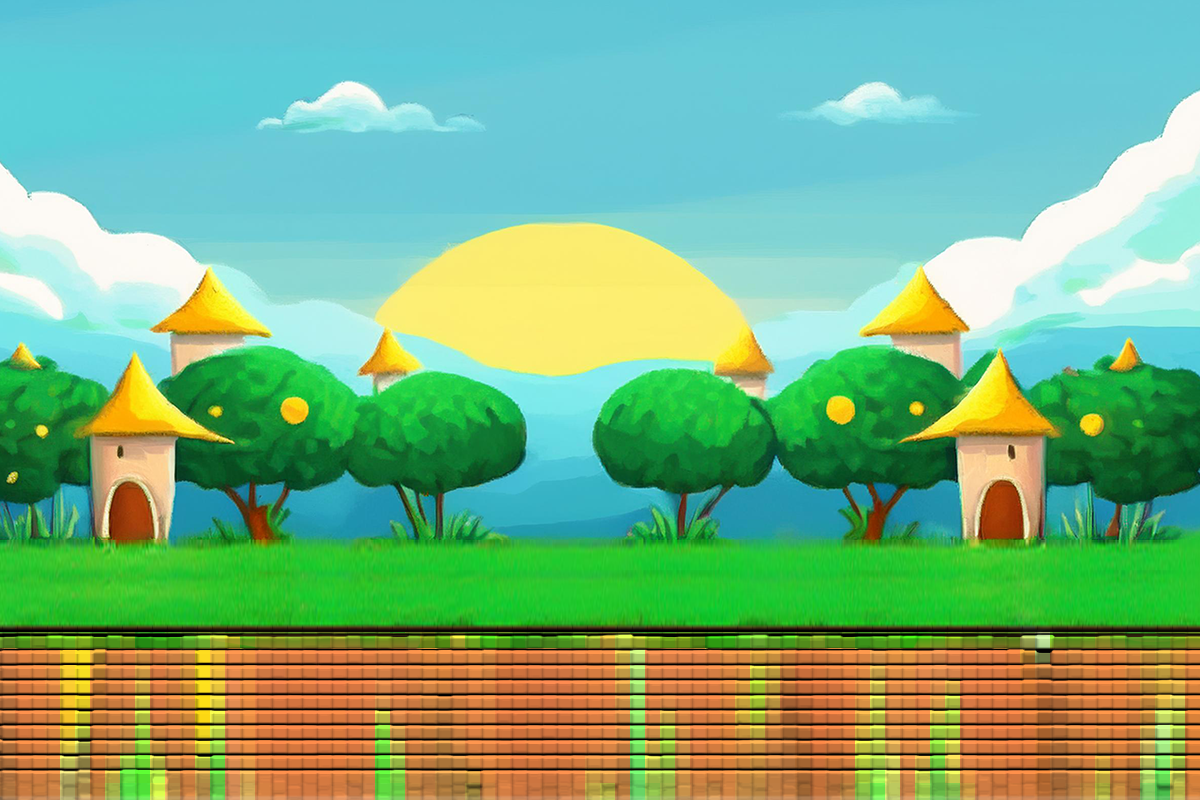
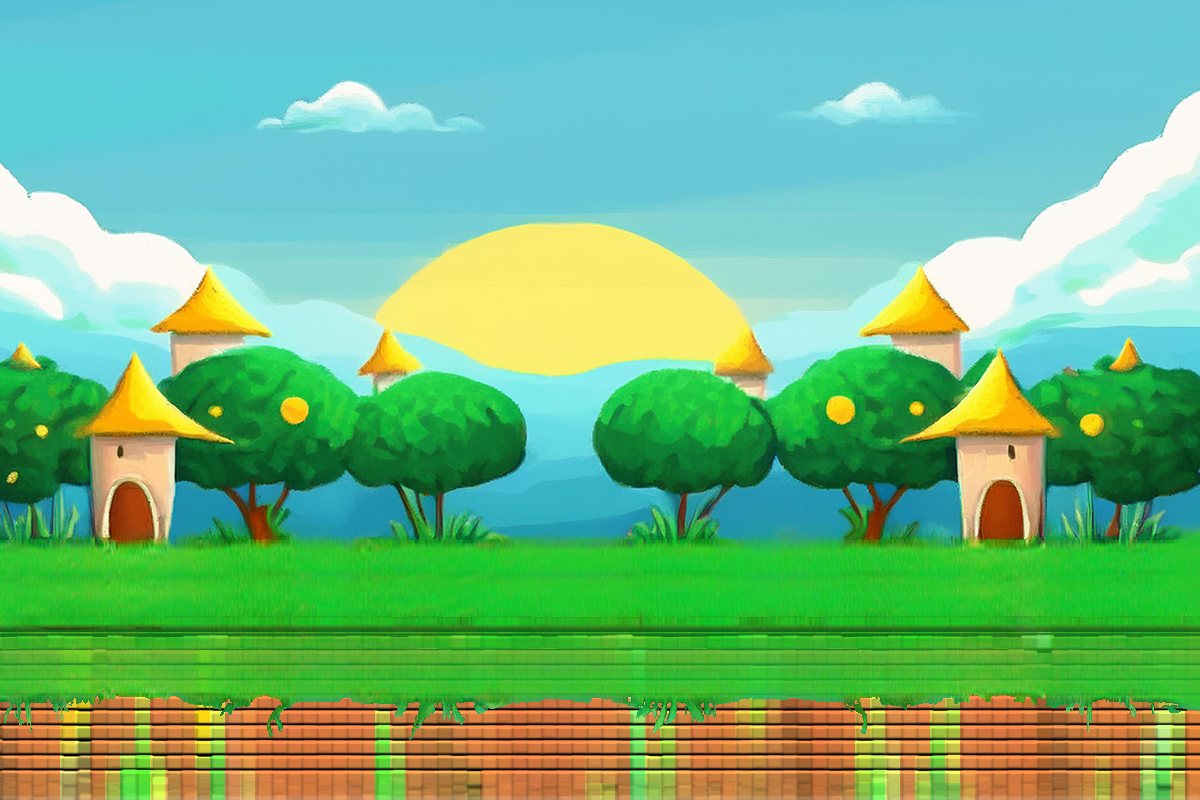
Update background fisx pause and death to run well

Changed region(s): [[0.0, 0.7812, 1.0, 0.9062]]

diff --git a/0_ Game_0.py b/0_ Game_0.py
@@ -268,10 +268,11 @@ class Player:
             self.respawn()
 
     def respawn(self):
-        your_dead()
-        self.health = self.maxhealth
-        self.position = pygame.Vector2(100, 300)
-        self.is_jumping = False
+        if    your_dead():
+            self.health = self.maxhealth
+            self.position = pygame.Vector2(100, 300)
+            self.is_jumping = False
+            theme_song.play(loops=-1) 
 
     def draw_Stats(self, surface):
         # Drawing player stats (same as original)
@@ -282,7 +283,7 @@ class Player:
 
         # Remaining Lives
         text_Lives = my_font.render(f'{self.lives}x', True, (0, 150, 255))
-        surface.blit(text_Lives, (995, 685))
+        surface.blit(text_Lives, (995, 720))
 
         # Health Bar
         health_bar_length = 160
@@ -437,7 +438,6 @@ class Enemy:
     def get_health_percentage(self):
         return self.health / self.max_health  # Returns a value between 0 and 1
 
-#--------------------- BS working----------------------------------------------------------------
 class Enemy_bird(pygame.sprite.Sprite):
     def __init__(self, x, y, width, height, damage):
         super().__init__()
@@ -565,7 +565,7 @@ class Score:
     def draw(self, surface):
         my_font = pygame.font.SysFont('Comic Sans MS', 40)
         score_text = my_font.render(f'{self.value}', True, (0,150,255))
-        surface.blit(score_text, (130, 690))
+        surface.blit(score_text, (130, 720))
 
 class GameManager:
     def __init__(self):
@@ -908,6 +908,7 @@ def display_your_dead_message():
 def your_dead():
     paused = True
     frame = 0  # Track the animation frame
+    theme_song.stop()
     Lastwords.play()  # Play the death sound
     animation_done = False  # Track if the animation has finished
 
@@ -921,7 +922,8 @@ def your_dead():
                     pygame.quit()
 
                 elif event.key == pygame.K_RETURN:  # Press Enter to restart the game
-                    return False  # Resume the game and restart
+                    Lastwords.stop()
+                    return True  # Resume the game and respawn
 
         if not animation_done:
             if frame < len(you_died):  # Play the animation
@@ -979,11 +981,12 @@ def pause_game():
             if event.type == pygame.QUIT:
                 pygame.quit()
 
-                if event.type == pygame.KEYDOWN:
-                    if event.key == pygame.K_ESCAPE:  # Press Esc to quit the game
-                       pygame.quit()
+            if event.type == pygame.KEYDOWN:
+                if event.key == pygame.K_ESCAPE:  # Press Esc to quit the game
+                    pygame.quit()
+                    return
 
-            elif event.key == pygame.K_RETURN:  # Press Enter to resume the game
+                elif event.key == pygame.K_RETURN:  # Press Enter to resume the game
                     paused = False
 
         display_pause_message()
@@ -1073,6 +1076,9 @@ def game_loop():
             elif event.type == pygame.KEYDOWN:
                 if event.key == pygame.K_ESCAPE:  # Pause the game on Esc
                     pause_game()         
+        if player.health <= 0:  # Check if player is dead
+            your_dead()
+            player.respawn()  # Respawn the player after the death sequence
 
         # This controls what is on the map runn by global veriables
         Game_Manager.load_level()
@@ -1129,8 +1135,8 @@ def game_loop():
             collectable.interact(player, score)#need to interact with JB score
 
         screen.blit(Ammo, (950, 60))  # Change for lIVES hp bULLETS --- cLASS: wEAPON
-        screen.blit(Lives, (1050, 680))
-        screen.blit(LemPoints, (70, 700))
+        screen.blit(Lives, (1050, 720))
+        screen.blit(LemPoints, (70, 725))
         score.draw(screen)
 
         # -- Handle player movement --
